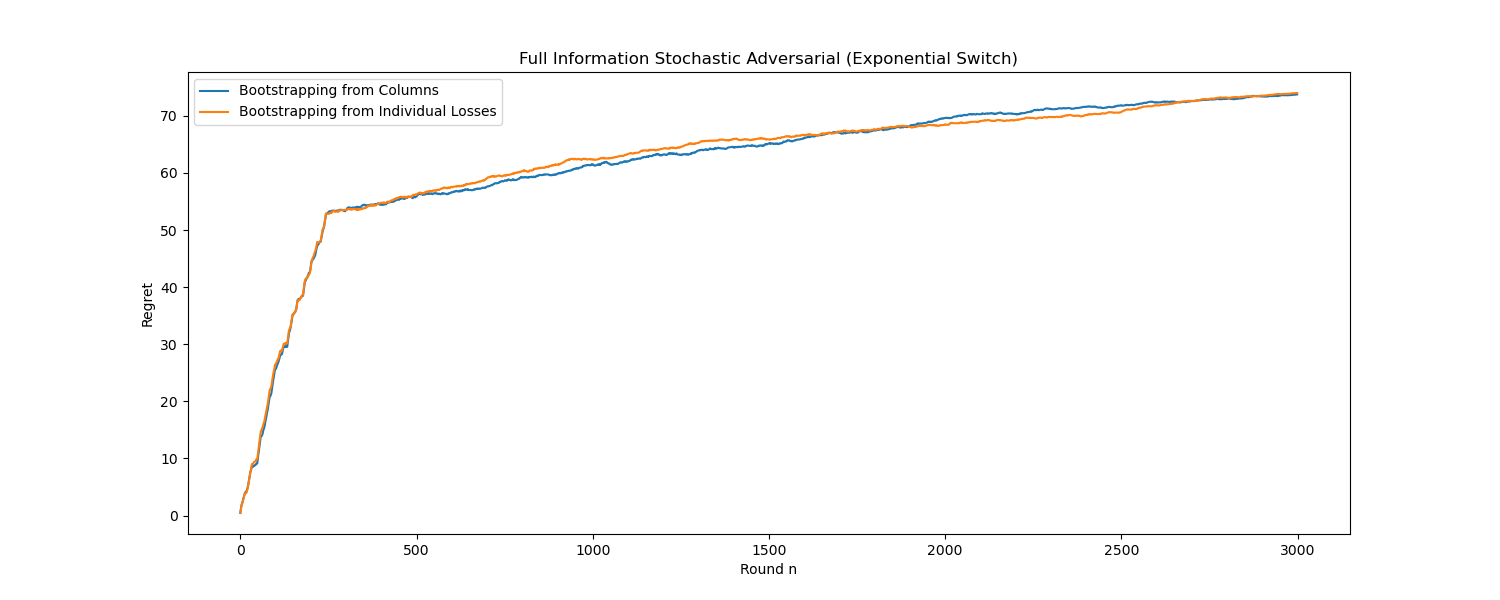
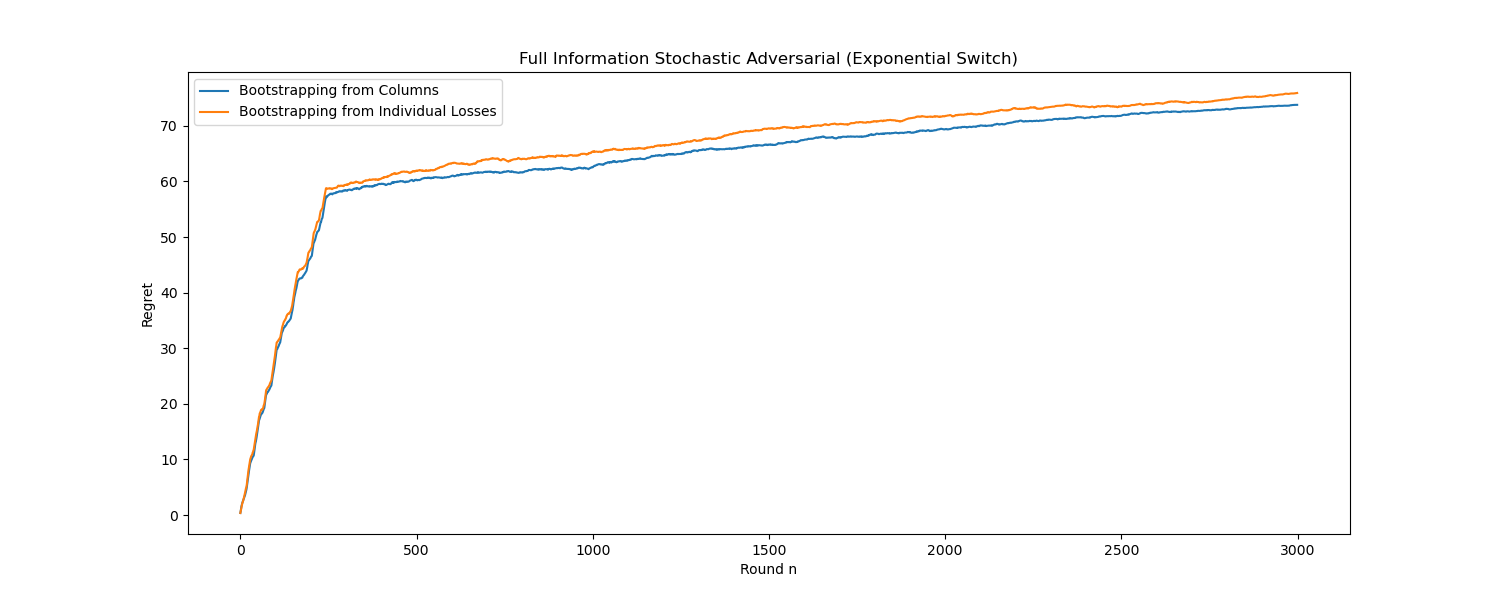
Different Variants of Bagging from the Past

diff --git a/scripts/bagging_from_the_past_simulations.py b/scripts/bagging_from_the_past_simulations.py
@@ -14,10 +14,10 @@ from bandit_algorithms.bagging_from_the_past import BaggingFromThePast_FI, Baggi
 import numpy as np
 import math
 
-high_gap_stochastic_data_job = High_Gap_Stochastic()
-low_gap_stochastic_data_job = Low_Gap_Stochastic()
-stochastically_constrained_data_job = Stochastically_Constrained()
-stochastically_constrained_fast_switch_data_job = Stochastically_Constrained_Fast_Switch()
+high_gap_stochastic_data_job = High_Gap_Stochastic(num_arms = 50, time_horizon = 3000)
+low_gap_stochastic_data_job = Low_Gap_Stochastic(num_arms = 50, time_horizon = 3000)
+stochastically_constrained_data_job = Stochastically_Constrained(num_arms = 50, time_horizon = 3000)
+stochastically_constrained_fast_switch_data_job = Stochastically_Constrained_Fast_Switch(num_arms = 50, time_horizon = 3000)
 
 bp_fi = BaggingFromThePast_FI(stochastically_constrained_data_job)
 bp_fi_v0 = BaggingFromThePast_FI_v0(stochastically_constrained_data_job)
@@ -35,16 +35,16 @@ full_info_ground = Full_Info_Play_Ground(stochastically_constrained_fast_switch_
                                           plot_directory="results/bagging_from_the_past_simulations/")
 full_info_ground.plot_results()
 
-bp_fi = BaggingFromThePast_PI(stochastically_constrained_data_job)
+""" bp_fi = BaggingFromThePast_PI(stochastically_constrained_data_job)
 bp_fi_v0 = BaggingFromThePast_PI_v0(stochastically_constrained_data_job)
 bp_fi_v1 = BaggingFromThePast_PI_v1(stochastically_constrained_data_job)
 partial_info_ground = Partial_Info_Play_Ground(stochastically_constrained_data_job, 
                                          [bp_fi, bp_fi_v0, bp_fi_v1], 
                                           plot_label="Partial Information Stochastic Adversarial (Exponential Switch)",
                                           plot_directory="results/bagging_from_the_past_simulations/")
-partial_info_ground.plot_results()
+partial_info_ground.plot_results() """
 
-bp_fi = BaggingFromThePast_PI(stochastically_constrained_fast_switch_data_job)
+""" bp_fi = BaggingFromThePast_PI(stochastically_constrained_fast_switch_data_job)
 bp_fi_v0 = BaggingFromThePast_PI_v0(stochastically_constrained_fast_switch_data_job)
 bp_fi_v1 = BaggingFromThePast_PI_v1(stochastically_constrained_fast_switch_data_job)
 partial_info_ground = Partial_Info_Play_Ground(stochastically_constrained_fast_switch_data_job, 
@@ -69,4 +69,4 @@ partial_info_ground = Partial_Info_Play_Ground(low_gap_stochastic_data_job,
                                          [bp_fi, bp_fi_v0, bp_fi_v1], 
                                           plot_label="Partial Information Low Gap",
                                           plot_directory="results/bagging_from_the_past_simulations/")
-partial_info_ground.plot_results()
+partial_info_ground.plot_results() """

diff --git a/src/data_generating_mechanism/low_gap_stochastic.py b/src/data_generating_mechanism/low_gap_stochastic.py
@@ -4,12 +4,12 @@ from data_generating_mechanism.data_generating_mechanism import Data_Generating_
 
 class Low_Gap_Stochastic(Data_Generating_Mechanism):
         
-    def __init__(self, num_arms = 50):
+    def __init__(self, num_arms = 25, time_horizon = 2000):
         mu_arms = np.random.uniform(low = 0.25, high = 0.75, size = num_arms)
         optimal_arm_index = np.flip(np.argsort(mu_arms))[0]
         second_optimal_arm_index = np.flip(np.argsort(mu_arms))[1]
         mu_arms[second_optimal_arm_index] = mu_arms[optimal_arm_index] - 0.05
-        super().__init__(time_horizon = 3000, mu_arms = mu_arms, num_runs = 100, init_exploration = 5)
+        super().__init__(time_horizon = time_horizon, mu_arms = mu_arms, num_runs = 100, init_exploration = 5)
 
     def get_rewards(self, t):
         rewards = np.zeros(shape = self.get_K())

diff --git a/src/data_generating_mechanism/high_gap_stochastic.py b/src/data_generating_mechanism/high_gap_stochastic.py
@@ -4,11 +4,11 @@ from data_generating_mechanism.data_generating_mechanism import Data_Generating_
 
 class High_Gap_Stochastic(Data_Generating_Mechanism):
         
-    def __init__(self, num_arms = 50):
+    def __init__(self, num_arms = 25, time_horizon = 2000):
         mu_arms = np.random.uniform(low = 0.25, high = 0.6, size = num_arms)
         optimal_arm_index = np.argmax(mu_arms)
         mu_arms[optimal_arm_index] = 0.8
-        super().__init__(time_horizon = 3000, mu_arms = mu_arms, num_runs = 100, init_exploration = 5)
+        super().__init__(time_horizon = time_horizon, mu_arms = mu_arms, num_runs = 100, init_exploration = 5)
 
     def get_rewards(self, t):
         rewards = np.zeros(shape = self.get_K())

diff --git a/src/data_generating_mechanism/stochastically_constrained.py b/src/data_generating_mechanism/stochastically_constrained.py
@@ -4,9 +4,9 @@ from data_generating_mechanism.data_generating_mechanism import Data_Generating_
 
 class Stochastically_Constrained(Data_Generating_Mechanism):
 
-    def __init__(self, num_arms = 50):
+    def __init__(self, num_arms = 25, time_horizon = 2000):
         mu_arms = np.random.uniform(low = 0.25, high = 0.75, size = num_arms)
-        super().__init__(time_horizon = 3000, mu_arms = mu_arms, num_runs = 100, init_exploration = 5)
+        super().__init__(time_horizon = time_horizon, mu_arms = mu_arms, num_runs = 100, init_exploration = 5)
         self.optimal_arm_index = np.flip(np.argsort(mu_arms))[0]
         self.worst_arm_index = np.argsort(mu_arms)[0]
         self.current_exponential = 1

diff --git a/src/data_generating_mechanism/stochastically_constrained_fast_switch.py b/src/data_generating_mechanism/stochastically_constrained_fast_switch.py
@@ -4,9 +4,9 @@ from data_generating_mechanism.data_generating_mechanism import Data_Generating_
 
 class Stochastically_Constrained_Fast_Switch(Data_Generating_Mechanism):
 
-    def __init__(self, num_arms = 50):
+    def __init__(self, num_arms = 25, time_horizon = 2000):
         mu_arms = np.random.uniform(low = 0.25, high = 0.75, size = num_arms)
-        super().__init__(time_horizon = 3000, mu_arms = mu_arms, num_runs = 100, init_exploration = 5)
+        super().__init__(time_horizon = time_horizon, mu_arms = mu_arms, num_runs = 100, init_exploration = 5)
         self.optimal_arm_index = np.flip(np.argsort(mu_arms))[0]
         self.worst_arm_index = np.argsort(mu_arms)[0]
 
